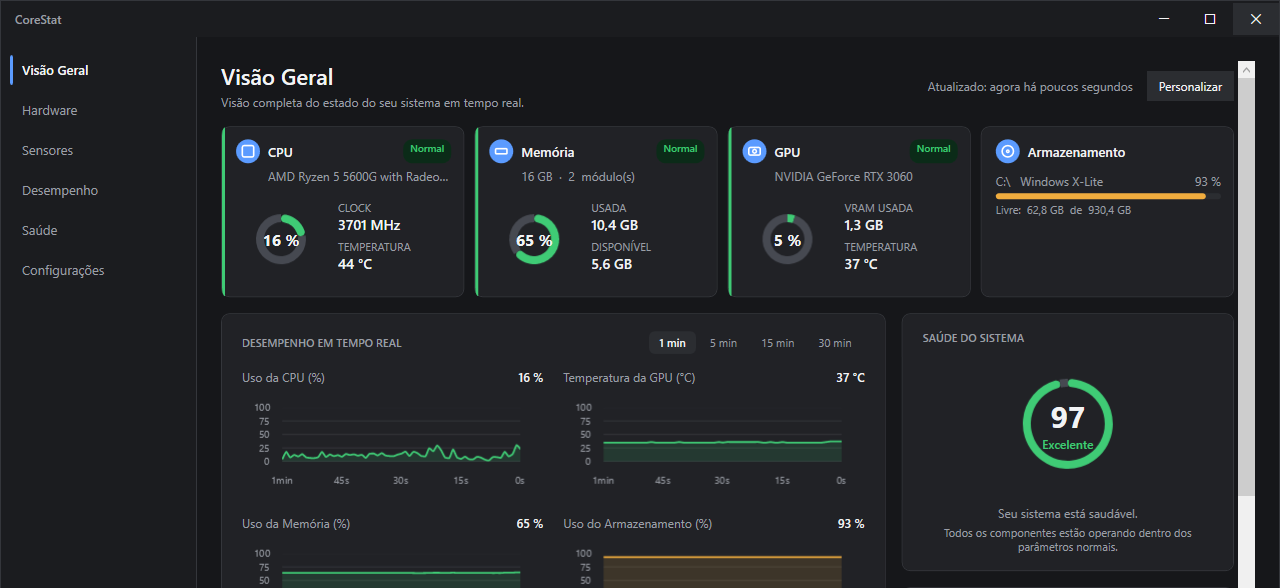
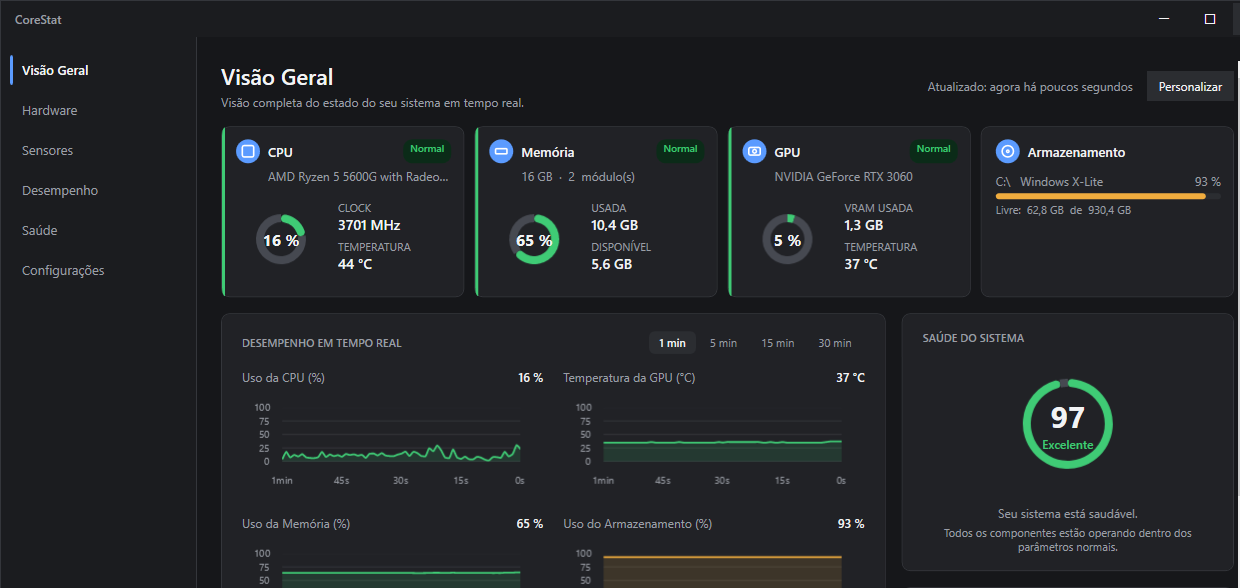
site: light Apple-style layout, glass nav, centered hero, rounded cards

diff --git a/index.html b/index.html
@@ -11,139 +11,241 @@
 <meta property="og:image" content="site-dashboard.png">
 <style>
   :root {
-    --bg: #131417;
-    --panel: #1B1C20;
-    --line: #2A2C31;
-    --soft: #212328;
-    --fg: #ECEDEF;
-    --fg-2: #9498A0;
-    --fg-3: #6B6F77;
-    --blue: #5B9BFF;
-    --green: #3FCB75;
-    --mono: ui-monospace, "Cascadia Mono", Consolas, monospace;
+    --ink: #1D1D1F;
+    --ink-2: #6E6E73;
+    --ink-3: #86868B;
+    --paper: #FFFFFF;
+    --paper-2: #F5F5F7;
+    --hair: rgba(0,0,0,.08);
+    --blue: #0071E3;
+    --green: #00A34A;
+    --r-lg: 28px;
+    --r-md: 20px;
+    --mono: ui-monospace, "SF Mono", "Cascadia Mono", Consolas, monospace;
   }
   * { margin: 0; padding: 0; box-sizing: border-box; }
+  html { scroll-behavior: smooth; -webkit-text-size-adjust: 100%; }
   body {
-    background: var(--bg); color: var(--fg);
-    font-family: "Segoe UI Variable", "Segoe UI", system-ui, sans-serif;
-    font-size: 15px; line-height: 1.6; -webkit-font-smoothing: antialiased;
+    background: var(--paper);
+    color: var(--ink);
+    font-family: -apple-system, "SF Pro Display", BlinkMacSystemFont, "Segoe UI Variable", "Segoe UI", system-ui, sans-serif;
+    font-size: 17px; line-height: 1.5;
+    -webkit-font-smoothing: antialiased;
   }
   a { color: inherit; text-decoration: none; }
-  .wrap { width: min(980px, 100% - 44px); margin-inline: auto; }
+  .wrap { width: min(1024px, 100% - 40px); margin-inline: auto; }
 
-  header { border-bottom: 1px solid var(--soft); }
-  .nav { display: flex; align-items: center; gap: 12px; height: 58px; }
-  .nav img { width: 24px; height: 24px; border-radius: 6px; }
-  .nav .name { font-weight: 650; letter-spacing: -.01em; }
-  .nav .ver { font-family: var(--mono); font-size: 12px; color: var(--fg-3); }
-  .nav .src { margin-left: auto; font-size: 13px; color: var(--fg-3); }
-
-  .top { padding: 54px 0 30px; display: flex; align-items: flex-end; justify-content: space-between; gap: 32px; flex-wrap: wrap; }
-  h1 { font-size: 30px; font-weight: 640; letter-spacing: -.025em; line-height: 1.2; }
-  h1 + p { color: var(--fg-2); margin-top: 8px; }
-  .dl {
-    display: inline-flex; align-items: baseline; gap: 10px; padding: 12px 20px; border-radius: 8px;
-    background: var(--blue); color: #08152B; font-weight: 650; letter-spacing: -.01em; white-space: nowrap;
+  /* floating glass nav */
+  .nav-shell { position: sticky; top: 12px; z-index: 40; padding: 0 20px; }
+  .nav {
+    max-width: 1024px; margin-inline: auto; height: 52px;
+    display: flex; align-items: center; gap: 11px;
+    padding: 0 10px 0 14px; border-radius: 980px;
+    background: rgba(255,255,255,.72);
+    backdrop-filter: saturate(180%) blur(20px);
+    -webkit-backdrop-filter: saturate(180%) blur(20px);
+    border: 1px solid rgba(0,0,0,.06);
+    box-shadow: 0 4px 24px rgba(0,0,0,.06);
   }
-  .dl:hover { filter: brightness(1.08); }
-  .dl span { font-family: var(--mono); font-size: 12px; font-weight: 500; opacity: .7; }
-
-  .shot img { width: 100%; display: block; border: 1px solid var(--line); border-radius: 10px; }
-
-  section { padding: 52px 0 0; }
-  h2 { font-size: 13px; font-family: var(--mono); font-weight: 500; letter-spacing: .1em; text-transform: uppercase; color: var(--fg-3); padding-bottom: 12px; border-bottom: 1px solid var(--soft); }
-
-  .row { display: grid; grid-template-columns: 150px 1fr; gap: 24px; padding: 12px 0; border-bottom: 1px solid var(--soft); }
-  .row > :first-child { font-weight: 600; }
-  .row > :last-child { color: var(--fg-2); }
-  .row code, code { font-family: var(--mono); font-size: 13px; color: var(--fg); background: var(--soft); padding: 1px 6px; border-radius: 4px; }
-
-  .file { display: grid; grid-template-columns: 1fr auto; gap: 20px; align-items: center; background: var(--panel); border: 1px solid var(--line); border-radius: 10px; padding: 20px 22px; margin-top: 20px; }
-  .file .n { font-family: var(--mono); font-size: 14px; }
-  .file .m { color: var(--fg-3); font-size: 13px; margin-top: 4px; }
-  .sha { font-family: var(--mono); font-size: 11px; color: var(--fg-3); word-break: break-all; margin-top: 14px; }
-  .sha b { color: var(--fg-2); font-weight: 500; }
-
-  footer { margin-top: 56px; padding: 22px 0 46px; border-top: 1px solid var(--soft); font-size: 13px; color: var(--fg-3); display: flex; justify-content: space-between; gap: 12px; flex-wrap: wrap; }
-  footer .mono { font-family: var(--mono); }
-  .ok { color: var(--green); }
-
-  @media (max-width: 760px) {
-    .row { grid-template-columns: 1fr; gap: 2px; padding: 14px 0; }
-    .file { grid-template-columns: 1fr; }
-    .top { padding-top: 38px; }
+  .nav img { width: 26px; height: 26px; border-radius: 7px; }
+  .nav .name { font-weight: 600; font-size: 16px; letter-spacing: -.01em; }
+  .nav .ver { font-size: 12px; color: var(--ink-3); font-family: var(--mono); }
+  .nav .pill {
+    margin-left: auto; background: var(--blue); color: #fff;
+    font-size: 13px; font-weight: 600; padding: 8px 16px; border-radius: 980px;
   }
+  .nav .pill:hover { filter: brightness(1.08); }
+
+  /* hero */
+  .hero { position: relative; text-align: center; padding: 92px 0 44px; overflow: hidden; }
+  .hero::before, .hero::after {
+    content: ""; position: absolute; border-radius: 50%; filter: blur(90px); opacity: .5; z-index: -1;
+  }
+  .hero::before { width: 420px; height: 420px; background: #8FC0FF; opacity: .34; top: -170px; left: 50%; margin-left: -360px; }
+  .hero::after  { width: 380px; height: 380px; background: #A9EBCE; opacity: .34; top: -140px; left: 50%; margin-left: 40px; }
+  h1 {
+    font-size: clamp(40px, 7vw, 68px); line-height: 1.05; letter-spacing: -.035em; font-weight: 700;
+    max-width: 15ch; margin-inline: auto;
+  }
+  .sub { color: var(--ink-2); font-size: clamp(17px, 2.2vw, 21px); margin-top: 18px; }
+  .btns { display: flex; gap: 14px; justify-content: center; align-items: center; margin-top: 30px; flex-wrap: wrap; }
+  .btn {
+    display: inline-flex; align-items: center; gap: 8px;
+    background: var(--blue); color: #fff; font-weight: 600; font-size: 16px;
+    padding: 13px 26px; border-radius: 980px; transition: transform .15s, filter .15s;
+  }
+  .btn:hover { filter: brightness(1.08); transform: translateY(-1px); }
+  .btn.ghost { background: transparent; color: var(--blue); padding: 13px 6px; }
+  .btn.ghost:hover { filter: none; }
+  .meta { font-size: 13px; color: var(--ink-3); margin-top: 14px; }
+
+  /* screenshot */
+  .shot { margin-top: 8px; }
+  .shot { position: relative; }
+  .shot img {
+    width: 100%; display: block; border-radius: var(--r-lg);
+    box-shadow: 0 30px 70px rgba(0,0,0,.18), 0 4px 12px rgba(0,0,0,.08);
+  }
+  .shot::after {
+    content: ""; position: absolute; inset: auto 0 0 0; height: 72px; pointer-events: none;
+    border-radius: 0 0 var(--r-lg) var(--r-lg);
+    background: linear-gradient(to bottom, rgba(255,255,255,0) 0%, rgba(255,255,255,.92) 78%, var(--paper) 100%);
+  }
+
+  /* sections */
+  section { padding: 84px 0 0; }
+  .eyebrow { font-size: 15px; font-weight: 600; color: var(--blue); text-align: center; }
+  h2 { font-size: clamp(28px, 4vw, 40px); letter-spacing: -.028em; font-weight: 700; text-align: center; margin-top: 6px; }
+  .lede { text-align: center; color: var(--ink-2); margin-top: 12px; }
+
+  .cards { display: grid; grid-template-columns: repeat(3, 1fr); gap: 16px; margin-top: 40px; }
+  .card {
+    background: var(--paper-2); border-radius: var(--r-md); padding: 26px 24px;
+  }
+  .card h3 { font-size: 19px; letter-spacing: -.015em; font-weight: 600; }
+  .card p { color: var(--ink-2); font-size: 15px; margin-top: 7px; }
+  .card.wide { grid-column: span 3; display: flex; align-items: center; justify-content: space-between; gap: 24px; flex-wrap: wrap; }
+
+  /* spec chips */
+  .chips { display: flex; flex-wrap: wrap; gap: 10px; justify-content: center; margin-top: 36px; }
+  .chip {
+    background: var(--paper-2); border-radius: 980px; padding: 10px 18px; font-size: 15px; color: var(--ink-2);
+  }
+  .chip b { color: var(--ink); font-weight: 600; }
+  .chip .dot { color: var(--green); }
+
+  /* download */
+  .dl-card {
+    margin-top: 40px; background: var(--paper-2); border-radius: var(--r-lg); padding: 40px 32px; text-align: center;
+  }
+  .dl-card .file { font-family: var(--mono); font-size: 15px; }
+  .dl-card .facts { color: var(--ink-2); font-size: 14px; margin-top: 6px; }
+  .dl-card .btn { margin-top: 22px; }
+  .fine { font-size: 12px; color: var(--ink-3); margin-top: 22px; line-height: 1.7; }
+  .fine code { font-family: var(--mono); background: rgba(0,0,0,.05); padding: 1px 6px; border-radius: 5px; }
+  .sha { font-family: var(--mono); font-size: 11px; color: var(--ink-3); word-break: break-all; margin-top: 8px; }
+
+  /* whats new */
+  .new { max-width: 640px; margin: 36px auto 0; }
+  .new div { display: flex; gap: 16px; padding: 14px 0; border-top: 1px solid var(--hair); align-items: baseline; }
+  .new div:first-child { border-top: 0; }
+  .new .tag { font-size: 12px; font-weight: 600; color: var(--blue); min-width: 62px; }
+  .new .tag.soon { color: var(--ink-3); }
+  .new p { color: var(--ink-2); font-size: 15px; }
+
+  footer {
+    margin-top: 90px; padding: 26px 0 44px; border-top: 1px solid var(--hair);
+    font-size: 12px; color: var(--ink-3); display: flex; justify-content: space-between; gap: 10px; flex-wrap: wrap;
+  }
+
+  @media (max-width: 820px) {
+    .cards { grid-template-columns: 1fr; }
+    .card.wide { grid-column: span 1; }
+    .hero { padding-top: 64px; }
+  }
+
 </style>
 </head>
 <body>
 
-<header>
-  <div class="wrap nav">
+<div class="nav-shell">
+  <div class="nav">
     <img src="corestat-512.png" alt="">
     <span class="name">CoreStat</span>
     <span class="ver">0.3.0</span>
-    <span class="src">WPF · .NET 10 · LibreHardwareMonitor + WMI</span>
+    <a class="pill" href="#baixar">Baixar</a>
   </div>
-</header>
+</div>
 
-<main class="wrap">
-  <div class="top">
-    <div>
-      <h1>Monitor de hardware para Windows 10/11.</h1>
-      <p>CPU, GPU, memória, discos e sensores em tempo real.</p>
+<main>
+  <div class="wrap hero">
+    <h1>Seu hardware, em tempo real.</h1>
+    <p class="sub">CPU, GPU, memória, discos e sensores. Para Windows 10 e 11.</p>
+    <div class="btns">
+      <a class="btn" href="https://github.com/GabrielKqw/corestat-site/releases/download/v0.3.0/CoreStatSetup-0.3.0.exe">Baixar para Windows</a>
+      <a class="btn ghost" href="#telas">Ver as telas &rsaquo;</a>
     </div>
-    <a class="dl" href="https://github.com/GabrielKqw/corestat-site/releases/download/v0.3.0/CoreStatSetup-0.3.0.exe">
-      Baixar <span>exe · 60 MB</span>
-    </a>
+    <p class="meta">Versão 0.3.0 · 60 MB · runtime incluso</p>
   </div>
 
-  <div class="shot">
+  <div class="wrap shot">
     <img src="site-dashboard.png" alt="Tela Visão Geral do CoreStat: cards de CPU, memória, GPU e armazenamento, gráficos em tempo real e score de saúde">
   </div>
 
-  <section>
-    <h2>Telas</h2>
-    <div class="row"><div>Visão Geral</div><div>Cards de CPU, memória, GPU e discos, 4 gráficos e score de saúde.</div></div>
-    <div class="row"><div>Desempenho</div><div>10 gráficos ao vivo. Janelas de 60 s, 5 min e 15 min.</div></div>
-    <div class="row"><div>Saúde</div><div>Verificações com a leitura, o limiar aplicado e o que fazer.</div></div>
-    <div class="row"><div>Hardware</div><div>Inventário campo a campo, cada um com botão de copiar.</div></div>
-    <div class="row"><div>Sensores</div><div>Árvore completa do LibreHardwareMonitor.</div></div>
-  </section>
-
-  <section>
-    <h2>Requisitos</h2>
-    <div class="row"><div>Sistema</div><div>Windows 10 ou 11, x64</div></div>
-    <div class="row"><div>Permissão</div><div>Administrador (o app solicita sozinho)</div></div>
-    <div class="row"><div>Runtime</div><div><span class="ok">Incluso no instalador</span></div></div>
-    <div class="row"><div>Driver</div><div><a href="https://pawnio.eu" style="color:var(--blue)">PawnIO</a> para temperatura, clock e potência da CPU. O instalador oferece.</div></div>
-  </section>
-
-  <section>
-    <h2>Download</h2>
-    <div class="file">
-      <div>
-        <div class="n">CoreStatSetup-0.3.0.exe</div>
-        <div class="m">Windows 10/11 x64 · 60 MB · runtime incluso</div>
+  <div class="wrap">
+    <section id="telas">
+      <p class="eyebrow">Cinco telas</p>
+      <h2>Tudo que a máquina informa.</h2>
+      <div class="cards">
+        <div class="card">
+          <h3>Visão Geral</h3>
+          <p>Cards de CPU, memória, GPU e discos, quatro gráficos e o score de saúde.</p>
+        </div>
+        <div class="card">
+          <h3>Desempenho</h3>
+          <p>Dez gráficos ao vivo, em janelas de 60 s, 5 min e 15 min.</p>
+        </div>
+        <div class="card">
+          <h3>Saúde</h3>
+          <p>Verificações com a leitura, o limiar aplicado e o que fazer.</p>
+        </div>
+        <div class="card">
+          <h3>Hardware</h3>
+          <p>Inventário campo a campo, cada um com botão de copiar.</p>
+        </div>
+        <div class="card">
+          <h3>Sensores</h3>
+          <p>A árvore completa do LibreHardwareMonitor.</p>
+        </div>
+        <div class="card">
+          <h3>Configurações</h3>
+          <p>Tema, unidade de temperatura, intervalo de atualização e início com o Windows.</p>
+        </div>
       </div>
-      <a class="dl" href="https://github.com/GabrielKqw/corestat-site/releases/download/v0.3.0/CoreStatSetup-0.3.0.exe">Baixar</a>
-    </div>
-    <div class="sha"><b>SHA-256</b> c569e337a0b2301a968fbfe542f59a897421976a05b494f5e8a60fddca8f65db</div>
-    <div class="sha">Sem assinatura de código: o SmartScreen pede <code>Mais informações → Executar assim mesmo</code>.</div>
-  </section>
+    </section>
 
-  <section>
-    <h2>0.3.0</h2>
-    <div class="row"><div>Novo</div><div>Tela de Saúde com diagnóstico e recomendações</div></div>
-    <div class="row"><div>Novo</div><div>Gráficos em tempo real na Visão Geral</div></div>
-    <div class="row"><div>Novo</div><div>Instalador com driver PawnIO opcional</div></div>
-    <div class="row"><div>Hardware</div><div>Stepping, ProcessorId, device ID da GPU, slot e voltagem da RAM, SMART dos discos</div></div>
-    <div class="row"><div>Próximo</div><div>Saúde com histórico, banco local, relatório exportável</div></div>
-  </section>
+    <section>
+      <p class="eyebrow">Requisitos</p>
+      <h2>Instala e abre.</h2>
+      <div class="chips">
+        <span class="chip"><b>Windows 10 / 11</b> x64</span>
+        <span class="chip"><span class="dot">●</span> Runtime <b>incluso</b></span>
+        <span class="chip">Executa como <b>administrador</b></span>
+        <span class="chip">Driver <b>PawnIO</b> para temperatura da CPU</span>
+      </div>
+    </section>
+
+    <section id="baixar">
+      <p class="eyebrow">Download</p>
+      <h2>Pegue a 0.3.0.</h2>
+      <div class="dl-card">
+        <div class="file">CoreStatSetup-0.3.0.exe</div>
+        <div class="facts">Windows 10/11 · x64 · 60 MB</div>
+        <a class="btn" href="https://github.com/GabrielKqw/corestat-site/releases/download/v0.3.0/CoreStatSetup-0.3.0.exe">Baixar instalador</a>
+        <p class="fine">
+          Sem assinatura de código: o SmartScreen pede <code>Mais informações → Executar assim mesmo</code>.
+        </p>
+        <div class="sha">SHA-256 c569e337a0b2301a968fbfe542f59a897421976a05b494f5e8a60fddca8f65db</div>
+      </div>
+    </section>
+
+    <section>
+      <p class="eyebrow">Novidades</p>
+      <h2>O que mudou na 0.3.0.</h2>
+      <div class="new">
+        <div><span class="tag">Novo</span><p>Tela de Saúde com diagnóstico e recomendações</p></div>
+        <div><span class="tag">Novo</span><p>Gráficos em tempo real na Visão Geral</p></div>
+        <div><span class="tag">Novo</span><p>Instalador com o driver PawnIO opcional</p></div>
+        <div><span class="tag">Melhor</span><p>Hardware com stepping, device ID da GPU, slot e voltagem da RAM, SMART dos discos</p></div>
+        <div><span class="tag soon">Próximo</span><p>Saúde com histórico, banco local, relatório exportável</p></div>
+      </div>
+    </section>
+  </div>
 </main>
 
 <footer class="wrap">
   <span>CoreStat 0.3.0</span>
-  <span class="mono">gabrielkqw</span>
+  <span>WPF · .NET 10 · LibreHardwareMonitor + WMI</span>
 </footer>
 
 </body>
